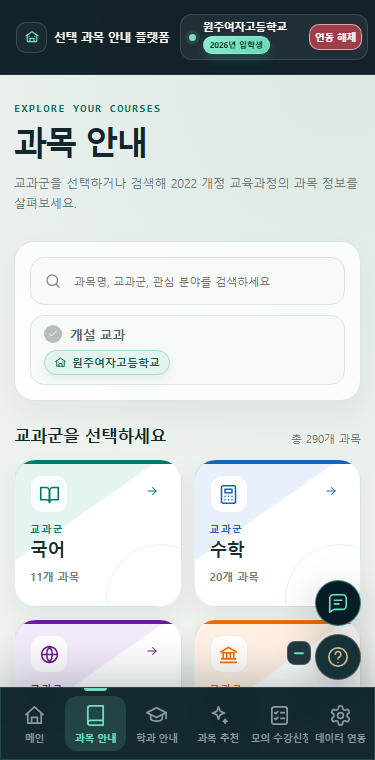
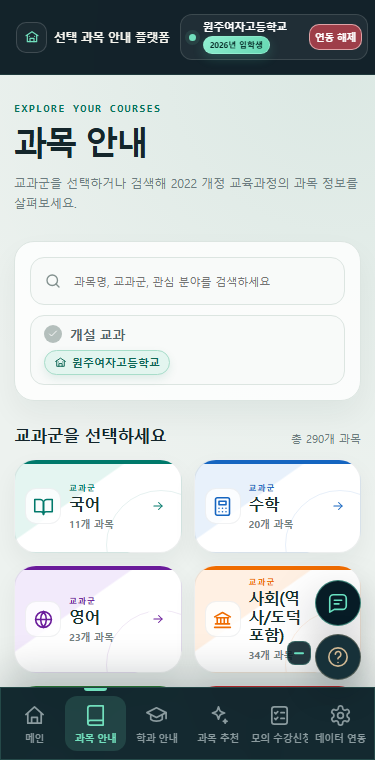
Auto sync: 2026-09-05 18:05:08

diff --git a/chatbot.js b/chatbot.js
@@ -70,18 +70,31 @@
           </details>
           <details class="course-chatbot-faq-item">
             <summary><span>02</span><strong>이 프로그램의 모든 정보를 100% 신뢰해도 되나요?</strong></summary>
-            <p>아니요. 선택 교과 및 추천 과목 정보가 업데이트되지 않을 수 있으므로 꼭 검토해 보세요.</p>
+            <p>아니요. 최신 정보가 반영되지 않았을 수 있으므로 꼭 검토해야 합니다.</p>
           </details>
           <details class="course-chatbot-faq-item">
             <summary><span>03</span><strong>이 프로그램에 쓰인 데이터들의 출처는 무엇인가요?</strong></summary>
-            <p>강원특별자치도교육청 「고교학점제를 위한 진로·학업 설계 안내서」, 커리어넷 「학과 정보」, 대학 어디가 「2028학년도 권역별 대학별 권장과목」 및 「2028학년도 계열별 대표 모집단위별 반영과목」의 자료를 기반으로 만들었습니다.</p>
+            <ol class="course-faq-source-list" aria-label="데이터 출처">
+              <li><span>①</span><span>강원특별자치도교육청 · 고교학점제를 위한 진로·학업 설계 안내서</span></li>
+              <li><span>②</span><span>커리어넷 · 학과 정보</span></li>
+              <li><span>③</span><span>대학 어디가 · 2028학년도 권역별 대학별 권장과목</span></li>
+              <li><span>④</span><span>대학 어디가 · 2028학년도 계열별 대표 모집단위별 반영과목</span></li>
+              <li><span>⑤</span><span>한국교육과정평가원 · 고교학점제 공식 홈페이지</span></li>
+              <li><span>⑥</span><span>인천광역시교육청 · 2025 고교학점제 이해를 위한 Q&amp;A</span></li>
+              <li><span>⑦</span><span>경기도교육청 · 2022 개정 고등학교 교육과정 Q&amp;A 도움 자료집</span></li>
+              <li><span>⑧</span><span>교육부 · 2022 개정 초·중등학교 및 특수교육 교육과정 확정·발표 및 질의응답 자료</span></li>
+            </ol>
           </details>
           <details class="course-chatbot-faq-item">
-            <summary><span>04</span><strong>제가 희망하는 학과가 없어요.</strong></summary>
+            <summary><span>04</span><strong>우리 학교에 개설된 과목 안내가 없어요.</strong></summary>
+            <p>고시 외 과목일 가능성이 높습니다. 고시 외 과목은 학교 선생님께 문의하세요.</p>
+          </details>
+          <details class="course-chatbot-faq-item">
+            <summary><span>05</span><strong>제가 희망하는 학과의 정보가 없어요.</strong></summary>
             <p>해당 학과가 커리어넷 또는 출처상 자료에 없는 학과일 수 있습니다. 자세한 내용은 해당 학과의 홈페이지를 참고해 주세요.</p>
           </details>
           <details class="course-chatbot-faq-item">
-            <summary><span>05</span><strong>학교 데이터는 어떻게 연동하나요?</strong></summary>
+            <summary><span>06</span><strong>학교 데이터는 어떻게 연동하나요?</strong></summary>
             <p>데이터 연동 탭에서 학교 편제표 표준 양식을 업로드할 수 있습니다.</p>
           </details>
         </div>

diff --git a/app.css b/app.css
@@ -18635,3 +18635,61 @@ body.curriculum-preview-open {
     font-size: 13px;
   }
 }
+
+/* 모바일 교과군 카드는 아이콘 옆에 제목을 두어 높이를 줄인다. */
+@media (max-width: 620px) {
+  .course-group-grid .course-group-card {
+    min-height: 94px;
+    grid-template-columns: 36px minmax(0, 1fr) 25px;
+    align-content: center;
+    align-items: center;
+    gap: 8px;
+    padding: 12px 10px;
+  }
+
+  .course-group-grid .course-group-card-icon {
+    width: 36px;
+    height: 36px;
+    border-radius: 11px;
+  }
+
+  .course-group-grid .course-group-card-copy {
+    align-self: center;
+  }
+
+  .course-group-grid .course-group-card-copy small {
+    font-size: 8px;
+    line-height: 1.1;
+  }
+
+  .course-group-grid .course-group-card-copy strong {
+    margin-top: 2px;
+    font-size: 16px;
+    line-height: 1.15;
+  }
+
+  .course-group-grid .course-group-card-copy span {
+    margin-top: 5px;
+    font-size: 10px;
+    line-height: 1.1;
+  }
+
+  .course-group-grid .course-group-card-arrow {
+    position: static;
+    width: 25px;
+    height: 25px;
+    justify-self: end;
+  }
+}
+
+/* 모바일 학과 분야 카드는 남는 세로 공간을 활용하되 작은 화면에서는 안전하게 축소한다. */
+@media (max-width: 620px) {
+  .app-main:has(> .major-field-grid) {
+    gap: clamp(9px, 1.45dvh, 12px);
+  }
+
+  .app-main:has(> .major-field-grid) > .major-field-grid {
+    --mobile-department-row: clamp(84px, 12.2dvh, 103px);
+    gap: clamp(9px, 1.3dvh, 11px);
+  }
+}

diff --git a/section.html b/section.html
@@ -7,8 +7,8 @@
   <title>학과·선택과목 조회 · 선택 과목 안내 플랫폼</title>
   <meta name="description" content="학교별 편제표와 연동되는 과목 선택 안내 플랫폼">
   <link rel="stylesheet" href="styles.css?v=20260905-5">
-  <link rel="stylesheet" href="app.css?v=20260905-20">
-  <link rel="stylesheet" href="chatbot.css?v=20260905-6">
+  <link rel="stylesheet" href="app.css?v=20260905-22">
+  <link rel="stylesheet" href="chatbot.css?v=20260905-7">
 </head>
 <body class="app-page">
   <header class="app-header">
@@ -105,6 +105,6 @@
   <script src="app-data.js?v=20260905-3"></script>
   <script src="app.js?v=20260905-14"></script>
   <script src="chatbot-engine.js?v=20260905-8"></script>
-  <script src="chatbot.js?v=20260905-7"></script>
+  <script src="chatbot.js?v=20260905-13"></script>
 </body>
 </html>

diff --git a/index.html b/index.html
@@ -8,7 +8,7 @@
   <meta name="description" content="학교 교육과정에 맞춰 선택과목을 이해하고 진로에 맞는 과목을 설계하는 안내 플랫폼">
   <link rel="stylesheet" href="styles.css?v=20260905-5">
   <link rel="stylesheet" href="landing.css?v=20260905-9">
-  <link rel="stylesheet" href="chatbot.css?v=20260905-6">
+  <link rel="stylesheet" href="chatbot.css?v=20260905-7">
 </head>
 <body class="landing-page landing-one-screen">
   <header class="landing-header">
@@ -99,6 +99,6 @@
   <script src="landing.js?v=20260905-4"></script>
   <script src="app-data.js?v=20260905-3"></script>
   <script src="chatbot-engine.js?v=20260905-8"></script>
-  <script src="chatbot.js?v=20260905-7"></script>
+  <script src="chatbot.js?v=20260905-13"></script>
 </body>
 </html>

diff --git a/chatbot.css b/chatbot.css
@@ -744,6 +744,32 @@
   line-height: 1.7;
 }
 
+.course-faq-source-list {
+  display: grid;
+  gap: 7px;
+  margin: -2px 5px 10px 37px;
+  padding: 11px 12px;
+  border-radius: 10px;
+  color: #53696c;
+  background: #f1f6f4;
+  font-size: 13px;
+  font-weight: 500;
+  line-height: 1.6;
+  list-style: none;
+}
+
+.course-faq-source-list > li {
+  display: grid;
+  grid-template-columns: 20px minmax(0, 1fr);
+  gap: 3px;
+  align-items: start;
+}
+
+.course-faq-source-list > li > span:first-child {
+  color: #0d7661;
+  font-weight: 850;
+}
+
 .course-chatbot-faq-item > summary strong .icon {
   width: 18px;
   height: 18px;
